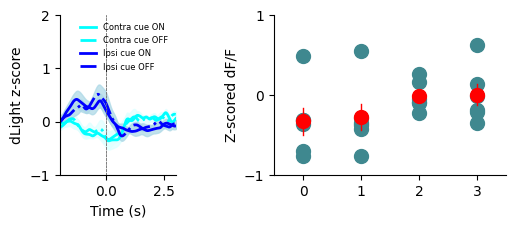
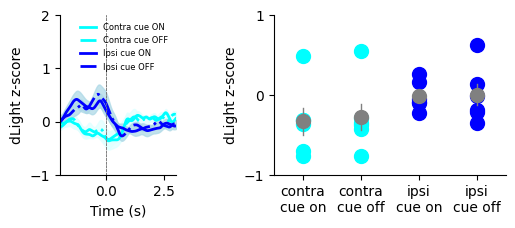
Updating ED5ST

diff --git a/scripts/yj_plotting.py b/scripts/yj_plotting.py
@@ -152,21 +152,33 @@ def plot_ED5ST(all_group_data, curr_data_time, return_contra_cue_on_values, retu
         curr_marker = '+'
 
     for i in range(0, len(return_contra_cue_on_values)):
-        x_val = [0, 1, 2, 3]
-        y_val = [return_contra_cue_on_values[i], return_contra_cue_off_values[i], return_ipsi_cue_on_values[i],
-                 return_ipsi_cue_off_values[i]]
-        ax[1].plot(x_val, y_val, color='#3F888F', linewidth=0, marker=curr_marker, markersize=10)
+        x_val1 = [0, 1]
+        x_val2 = [2, 3]
+
+        y_val1 = [return_contra_cue_on_values[i], return_contra_cue_off_values[i]]
+        y_val2 = [return_ipsi_cue_on_values[i], return_ipsi_cue_off_values[i]]
+        ax[1].plot(x_val1, y_val1, color='cyan', linewidth=0, marker=curr_marker, markersize=10)
+        ax[1].plot(x_val2, y_val2, color='blue', linewidth=0, marker=curr_marker, markersize=10)
 
     ax[1].spines['top'].set_visible(False)
     ax[1].spines['right'].set_visible(False)
-    # ax2.set_xticks([0, 1, 2, 3], ["contra cue on", "contra cue off", "ipsi cue on", "ipsi cue off"])
-    # ax2.set_xticks([0, 1, 2, 3], labels=["contra cue on", "contra cue off", "ipsi cue on", "ipsi cue off"])
+    #ax[1].set_xticks([0, 1, 2, 3], ["contra cue on", "contra cue off", "ipsi cue on", "ipsi cue off"])
+
+    # Set the tick positions
+    ax[1].set_xticks([0, 1, 2, 3])
+    # Set the tick labels with a line break and reduced font size
+    ax[1].set_xticklabels([
+        "contra\ncue on",
+        "contra\ncue off",
+        "ipsi\ncue on",
+        "ipsi\ncue off"
+    ], fontsize=10)
     ax[1].set_ylabel('dLight z-score')
 
     for i in range(0, 4):
         ax[1].plot([i, i], [mean_peak_values[i] + sem_peak_values[i], mean_peak_values[i] - sem_peak_values[i]],
-                 color='r', linewidth=1)
-        ax[1].plot([i], [mean_peak_values[i]], marker='o', markersize=10, color='r', linewidth=1)
+                 color='grey', linewidth=1)
+        ax[1].plot([i], [mean_peak_values[i]], marker='o', markersize=10, color='grey', linewidth=1)
 
     ax[1].set_ylim([-1, 1])
     ax[1].set_yticks([-1, 0, 1])
